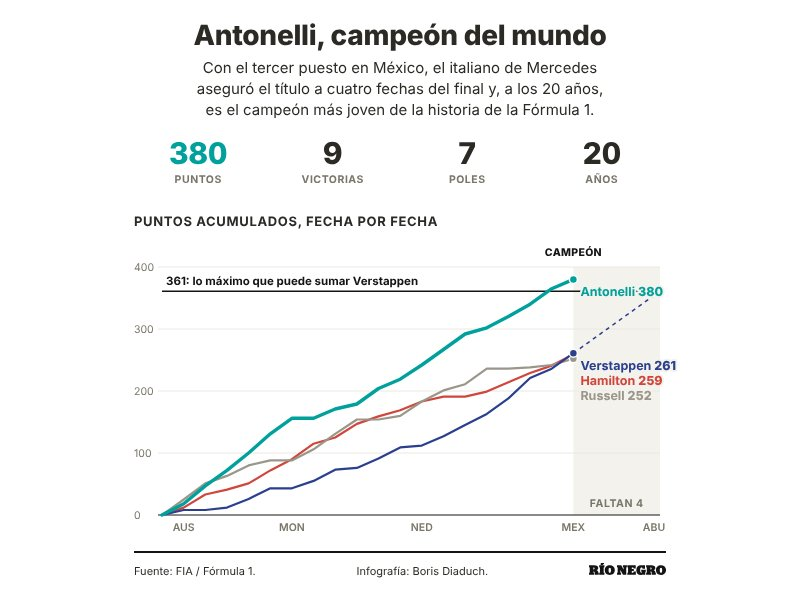
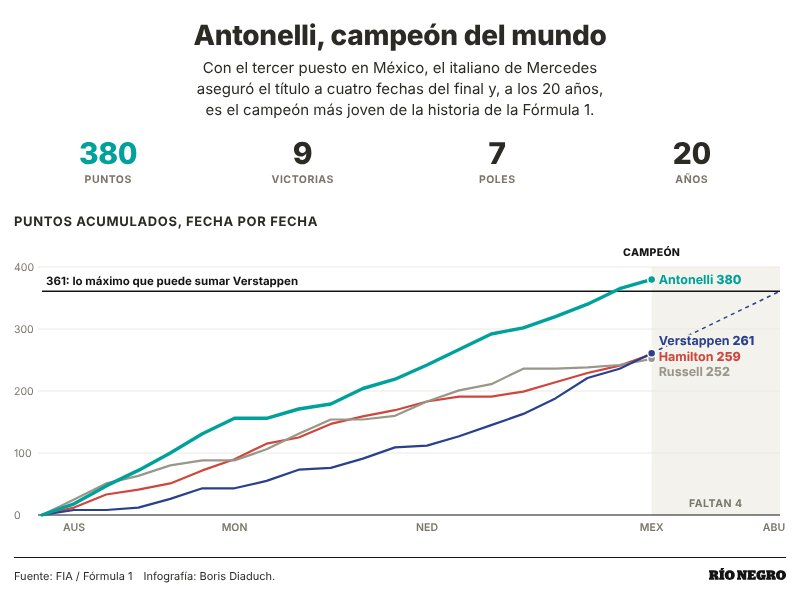
Antonelli: pie y ancho como el balotaje, rótulos alineados, link a la nota; capturas actualizadas
Claude-Session: https://claude.ai/code/session_01JazZymoFDsHSQKuZAQkrR1

diff --git a/infografia/antonelli-campeon-2026.html b/infografia/antonelli-campeon-2026.html
@@ -14,11 +14,11 @@
     font-family:'Chivo','Segoe UI',system-ui,-apple-system,sans-serif;
     color:var(--text); -webkit-font-smoothing:antialiased; padding:20px 14px 26px;
   }
-  .rn-card{ max-width:532px; margin:0 auto; background:var(--panel); position:relative; }
+  .rn-card{ max-width:900px; margin:0 auto; background:var(--panel); position:relative; }
 
   /* ---------- blindaje contra estilos del tema ---------- */
   .rn-f1{ font-size:16px; line-height:1.35; text-align:left; }
-  .rn-f1 :where(h1, h2, p, dl, dt, dd, span, b, small){ font-family:inherit; color:inherit; line-height:inherit; text-transform:none; letter-spacing:normal; font-style:normal; margin:0; padding:0; border:0; background:none; }
+  .rn-f1 :where(h1, h2, p, dl, dt, dd, span, b, small, a){ font-family:inherit; color:inherit; line-height:inherit; text-transform:none; letter-spacing:normal; font-style:normal; margin:0; padding:0; border:0; background:none; }
   .rn-f1 svg{ max-width:none; }
   /* ---------- encabezado ---------- */
   .rn-head{ text-align:center; }
@@ -75,10 +75,11 @@
   .tt-row small{ font-weight:400; color:var(--muted); }
 
   /* ---------- pie (igual que Brasil 2026) ---------- */
-  .rn-foot{ display:flex; gap:6px 18px; align-items:baseline; justify-content:space-between; padding:10px 0 0; margin-top:14px; border-top:2px solid var(--black); flex-direction:row-reverse; }
+  .rn-foot{ display:flex; gap:6px 18px; align-items:baseline; justify-content:space-between; padding:10px 0 0; margin-top:20px; border-top:1px solid var(--black); flex-direction:row-reverse; }
   .rn-foot .firma{ display:inline-flex; align-items:center; flex:none; }
   .rn-foot .firma svg{ height:12px; width:auto; display:block; }
   .rn-foot .fuente{ font-size:11px; color:var(--text); }
+  .rn-foot .fuente a{ color:inherit; font-weight:inherit; text-decoration:none; }
 
   @media (max-width:640px){
     .rn-head h1{ font-size:23px; }
@@ -115,8 +116,7 @@
 
     <div class="rn-foot">
       <span class="firma" aria-label="Río Negro" title="Infografía: Boris Diaduch"><svg viewBox="0 0 321 50" xmlns="http://www.w3.org/2000/svg" role="img" aria-hidden="true"><path d="M22.984 22.957c0 2.836-1.015 4.082-3.793 4.082H18.06V18.82h1.132c2.72 0 3.793 1.301 3.793 4.137M40.59 49.32v-8.218h-.512c-.504 0-1.191-.399-1.414-1.418l-.34-1.704c-1.02-5.101-3.004-6.8-6.851-7.652v-.226c5.156-1.532 6.965-4.649 6.965-9.012 0-7.656-4.868-11.453-17.38-11.453H0v8.5h1.363c.563 0 1.528.968 1.528 1.535V39.57c0 .567-.965 1.532-1.528 1.532H0v8.218h21.344v-8.218h-2.832v-5.844h1.758c1.921 0 2.828.91 3.054 3.289l1.02 10.773zm7.797-41.047h8.328l5.824-4.875V0H49.58zM42.445 49.32h21.852v-8.218h-1.59c-.562 0-1.531-.965-1.531-1.532V19.672c0-.567.969-1.535 1.531-1.535h1.59v-8.5H42.445v8.5h1.582c.57 0 1.532.968 1.532 1.535V39.57c0 .567-.961 1.532-1.532 1.532h-1.582zm49.18-19.558c0 7.09-1.93 10.543-5.04 10.543-3.112 0-5.034-3.453-5.034-10.543 0-7.086 1.922-10.207 5.035-10.207 3.11 0 5.039 3.12 5.039 10.207m16.016-.282c0-13.156-9.282-20.523-21.055-20.523-11.777 0-21.059 7.367-21.059 20.523C65.527 42.63 74.36 50 86.586 50s21.055-7.371 21.055-20.52m8.98 19.84h17.094v-8.218h-3.113V29.59h.171l10.864 19.73h13.644V19.672c0-.567.961-1.535 1.531-1.535h1.13v-8.5h-16.696v8.5h2.941v9.246h-.167l-9.743-17.746h-17.656v8.5h1.356c.57 0 1.53.968 1.53 1.535V39.57c0 .567-.96 1.532-1.53 1.532h-1.356zm43.176 0h35.379V34.922h-9.34l-1.184 5.496h-6.343v-6.797h8.546v-9.129h-8.546V18.82h6.226l1.3 4.48h8.888V9.638h-34.926v8.5h1.36c.57 0 1.527.968 1.527 1.535V39.57c0 .567-.957 1.532-1.528 1.532h-1.36zm56.762.68c3.34 0 7.195-.738 8.78-1.758 1.016 0 1.524 1.078 1.524 1.078h7.645V38.04c0-.567.96-1.532 1.527-1.532h.621v-8.215h-18.96v7.988h2.152v4.024a4.982 4.982 0 01-1.364.172c-4.297 0-5.316-4.137-5.316-11.223 0-7.938 2.598-10.094 6.957-10.094.453 0 1.363.059 1.813.113l1.527 4.82h9.851V9.638h-10.304c-1.918-.399-3.961-.68-6.11-.68-11.882 0-19.984 7.313-19.984 21.031 0 13.157 7.023 20.012 19.64 20.012m44.368-27.044c0 2.836-1.02 4.082-3.79 4.082h-1.132V18.82h1.133c2.718 0 3.789 1.301 3.789 4.137m17.61 26.363v-8.218h-.513c-.507 0-1.183-.399-1.414-1.418l-.336-1.704c-1.023-5.101-3-6.8-6.851-7.652v-.226c5.148-1.532 6.96-4.649 6.96-9.012 0-7.656-4.866-11.453-17.378-11.453h-21.05v8.5h1.35c.567 0 1.532.968 1.532 1.535V39.57c0 .567-.965 1.532-1.531 1.532h-1.352v8.218h21.332v-8.218h-2.824v-5.844h1.75c1.926 0 2.832.91 3.055 3.289l1.023 10.773zm26.48-19.558c0 7.09-1.922 10.543-5.04 10.543-3.109 0-5.038-3.453-5.038-10.543 0-7.086 1.93-10.207 5.039-10.207 3.117 0 5.039 3.12 5.039 10.207m16.02-.282c0-13.156-9.286-20.523-21.06-20.523-11.777 0-21.058 7.367-21.058 20.523 0 13.149 8.832 20.52 21.059 20.52 12.226 0 21.058-7.371 21.058-20.52" fill="#141414"></path></svg></span>
-      <span class="fuente">Infografía: Boris Diaduch.</span>
-      <span class="fuente">Fuente: FIA / Fórmula 1.</span>
+      <span class="fuente">Fuente: <a href="https://www.formula1.com/" target="_blank" rel="noopener">FIA / Fórmula 1</a>&#8195;Infografía: Boris Diaduch.</span>
     </div>
   </div>
 </div>
@@ -183,7 +183,7 @@ function draw(){
 
   /* rótulos finales, en la zona de fechas que faltan */
   var lx = x(DONE) + 7;
-  [["Antonelli",380,"var(--ant)",y(380) + 17],["Verstappen",261,"var(--ver)",y(261) + 17],["Hamilton",259,"var(--ham)",y(261) + 32],["Russell",252,"var(--rus)",y(261) + 47]].forEach(function(l){
+  [["Antonelli",380,"var(--ant)",y(380) + 4.5],["Verstappen",261,"var(--ver)",y(256) - 11],["Hamilton",259,"var(--ham)",y(256) + 4.5],["Russell",252,"var(--rus)",y(256) + 20]].forEach(function(l){
     var t = el("text", { "class":"end-t", x:lx, y:l[3], fill:l[2] });
     if (small){ t.innerHTML = '<tspan class="v">' + l[1] + '</tspan>'; }
     else { t.innerHTML = l[0] + ' <tspan class="v">' + l[1] + '</tspan>'; }

diff --git a/index.html b/index.html
@@ -131,6 +131,7 @@
         <div class="card-media"><span class="thumb"><img src="preview/antonelli-campeon-2026.jpg" alt="" width="800" height="600" loading="lazy"></span><h3>Antonelli, campeón del mundo</h3></div>
         <div class="btns">
           <a class="btn btn-gh" href="https://borisdiaduch.github.io/rninteractivo/infografia/antonelli-campeon-2026.html" target="_blank" rel="noopener"><span class="btn-txt">Ver en</span><span class="gh-logo" role="img" aria-label="GitHub"><svg class="gh-mark" viewBox="0 0 16 16" aria-hidden="true"><path fill="currentColor" d="M8 0c4.42 0 8 3.58 8 8a8.013 8.013 0 0 1-5.45 7.59c-.4.08-.55-.17-.55-.38 0-.27.01-1.13.01-2.2 0-.75-.25-1.23-.54-1.48 1.78-.2 3.65-.88 3.65-3.95 0-.88-.31-1.59-.82-2.15.08-.2.36-1.02-.08-2.12 0 0-.67-.22-2.2.82-.64-.18-1.32-.27-2-.27-.68 0-1.36.09-2 .27-1.53-1.03-2.2-.82-2.2-.82-.44 1.1-.16 1.92-.08 2.12-.51.56-.82 1.28-.82 2.15 0 3.06 1.86 3.75 3.64 3.95-.23.2-.44.55-.51 1.07-.46.21-1.61.55-2.33-.66-.15-.24-.6-.83-1.23-.82-.67.01-.27.38.01.53.34.19.73.9.82 1.13.16.45.68 1.31 2.69.94 0 .67.01 1.3.01 1.49 0 .21-.15.45-.55.38A7.995 7.995 0 0 1 0 8c0-4.42 3.58-8 8-8Z"/></svg></span></a>
+          <a class="btn btn-rn" href="https://www.rionegro.com.ar/deportes/kimi-antonelli-historia-pura-en-la-formula-1-estoy-tratando-de-procesar-lo-que-paso-4781210/" target="_blank" rel="noopener"><span class="btn-txt">Ver en</span><svg class="rn-logo" viewBox="0 0 321 59.6" role="img" aria-label="Río Negro"><path fill="currentColor" d="M22.984 22.957c0 2.836-1.015 4.082-3.793 4.082H18.06V18.82h1.132c2.72 0 3.793 1.301 3.793 4.137M40.59 49.32v-8.218h-.512c-.504 0-1.191-.399-1.414-1.418l-.34-1.704c-1.02-5.101-3.004-6.8-6.851-7.652v-.226c5.156-1.532 6.965-4.649 6.965-9.012 0-7.656-4.868-11.453-17.38-11.453H0v8.5h1.363c.563 0 1.528.968 1.528 1.535V39.57c0 .567-.965 1.532-1.528 1.532H0v8.218h21.344v-8.218h-2.832v-5.844h1.758c1.921 0 2.828.91 3.054 3.289l1.02 10.773zm7.797-41.047h8.328l5.824-4.875V0H49.58zM42.445 49.32h21.852v-8.218h-1.59c-.562 0-1.531-.965-1.531-1.532V19.672c0-.567.969-1.535 1.531-1.535h1.59v-8.5H42.445v8.5h1.582c.57 0 1.532.968 1.532 1.535V39.57c0 .567-.961 1.532-1.532 1.532h-1.582zm49.18-19.558c0 7.09-1.93 10.543-5.04 10.543-3.112 0-5.034-3.453-5.034-10.543 0-7.086 1.922-10.207 5.035-10.207 3.11 0 5.039 3.12 5.039 10.207m16.016-.282c0-13.156-9.282-20.523-21.055-20.523-11.777 0-21.059 7.367-21.059 20.523C65.527 42.63 74.36 50 86.586 50s21.055-7.371 21.055-20.52m8.98 19.84h17.094v-8.218h-3.113V29.59h.171l10.864 19.73h13.644V19.672c0-.567.961-1.535 1.531-1.535h1.13v-8.5h-16.696v8.5h2.941v9.246h-.167l-9.743-17.746h-17.656v8.5h1.356c.57 0 1.53.968 1.53 1.535V39.57c0 .567-.96 1.532-1.53 1.532h-1.356zm43.176 0h35.379V34.922h-9.34l-1.184 5.496h-6.343v-6.797h8.546v-9.129h-8.546V18.82h6.226l1.3 4.48h8.888V9.638h-34.926v8.5h1.36c.57 0 1.527.968 1.527 1.535V39.57c0 .567-.957 1.532-1.528 1.532h-1.36zm56.762.68c3.34 0 7.195-.738 8.78-1.758 1.016 0 1.524 1.078 1.524 1.078h7.645V38.04c0-.567.96-1.532 1.527-1.532h.621v-8.215h-18.96v7.988h2.152v4.024a4.982 4.982 0 01-1.364.172c-4.297 0-5.316-4.137-5.316-11.223 0-7.938 2.598-10.094 6.957-10.094.453 0 1.363.059 1.813.113l1.527 4.82h9.851V9.638h-10.304c-1.918-.399-3.961-.68-6.11-.68-11.882 0-19.984 7.313-19.984 21.031 0 13.157 7.023 20.012 19.64 20.012m44.368-27.044c0 2.836-1.02 4.082-3.79 4.082h-1.132V18.82h1.133c2.718 0 3.789 1.301 3.789 4.137m17.61 26.363v-8.218h-.513c-.507 0-1.183-.399-1.414-1.418l-.336-1.704c-1.023-5.101-3-6.8-6.851-7.652v-.226c5.148-1.532 6.96-4.649 6.96-9.012 0-7.656-4.866-11.453-17.378-11.453h-21.05v8.5h1.35c.567 0 1.532.968 1.532 1.535V39.57c0 .567-.965 1.532-1.531 1.532h-1.352v8.218h21.332v-8.218h-2.824v-5.844h1.75c1.926 0 2.832.91 3.055 3.289l1.023 10.773zm26.48-19.558c0 7.09-1.922 10.543-5.04 10.543-3.109 0-5.038-3.453-5.038-10.543 0-7.086 1.93-10.207 5.039-10.207 3.117 0 5.039 3.12 5.039 10.207m16.02-.282c0-13.156-9.286-20.523-21.06-20.523-11.777 0-21.058 7.367-21.058 20.523 0 13.149 8.832 20.52 21.059 20.52 12.226 0 21.058-7.371 21.058-20.52"/></svg></a>
         </div>
       </li>
     </ul>
